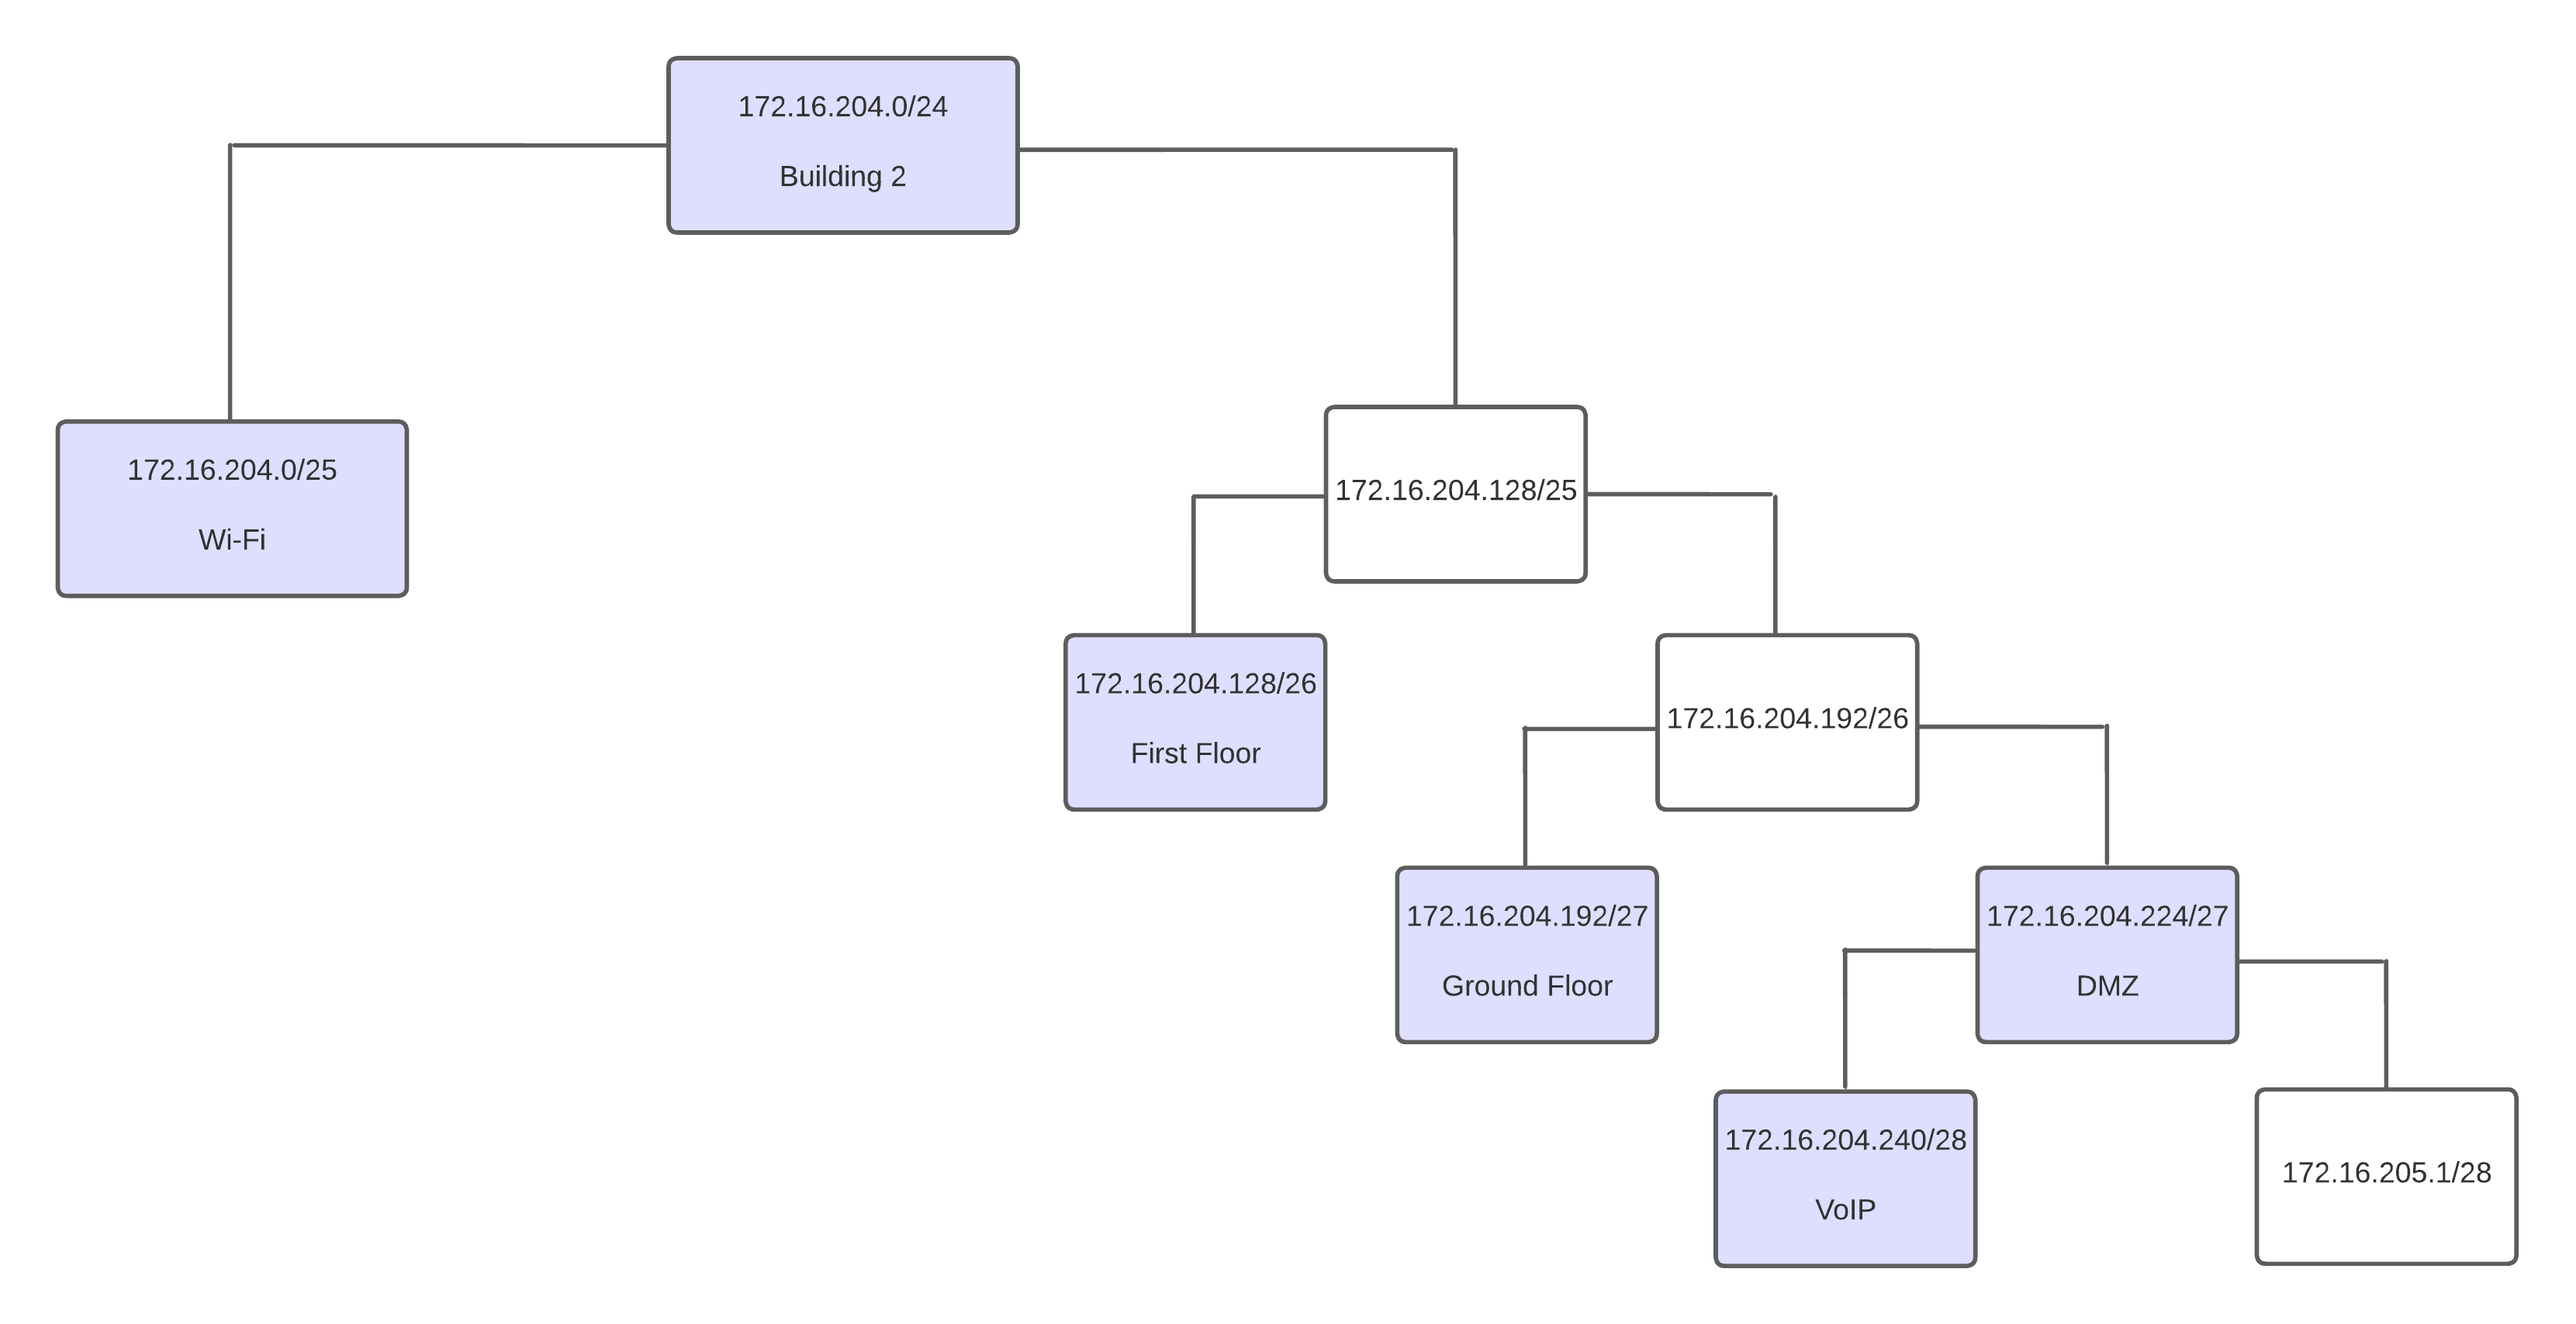
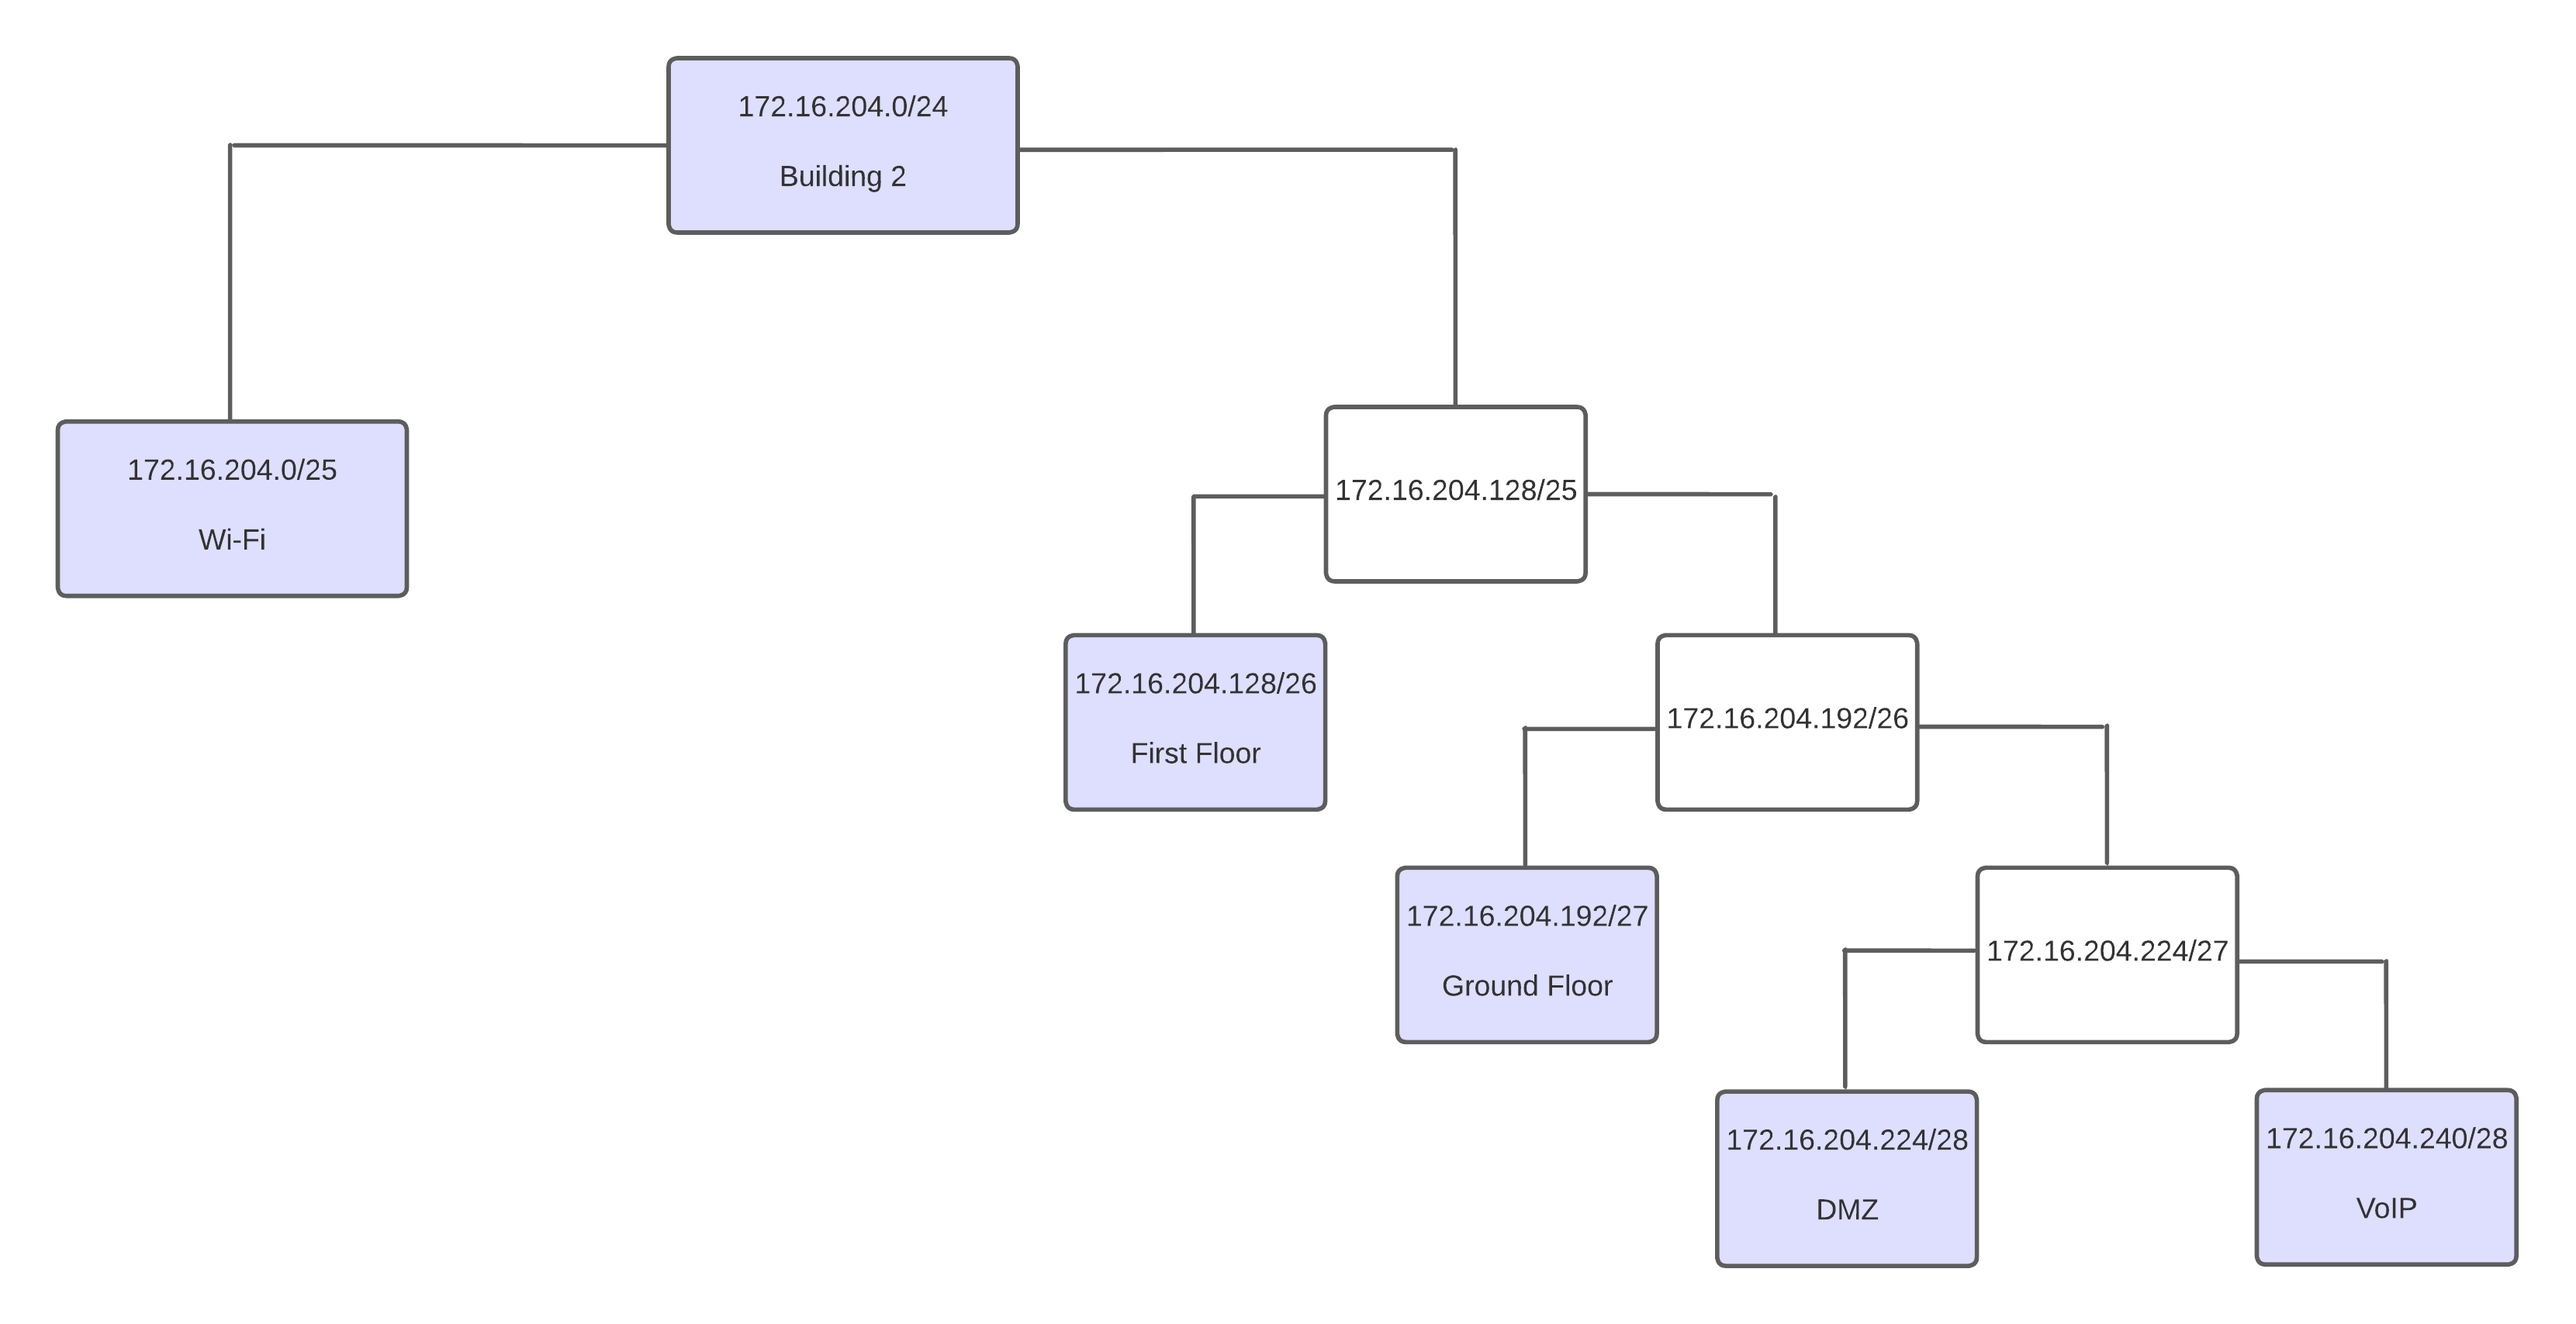
Fix on the Network Table

diff --git a/doc/sprint2/1201239/README.md b/doc/sprint2/1201239/README.md
@@ -14,8 +14,8 @@ RCOMP 2021-2022 Project - Sprint 2 - Member 1201239 folder
 |Wi-Fi           | 248     | b2wifi        | 120         | 172.16.204.0/25   | 172.16.204.1/25   | 172.16.204.126/25 | 172.16.204.127/25 |
 |First Floor     | 247     | b2floorone    | 50          | 172.16.204.128/26 | 172.16.204.129/26 | 172.16.204.190/26 | 172.16.204.191/26 |
 |Ground Floor    | 246     | b2groundfloor | 25          | 172.16.204.192/27 | 172.16.204.193/27 | 172.16.204.224/27 | 172.16.204.223/27 |
-|DMZ             | 249     | b2dmz         | 12          | 172.16.204.224/27 | 172.16.204.225/27 | 172.16.204.238/27 | 172.16.204.239/27 |
-|VoIP            | 250     | b2voip        | 12          | 172.16.204.240/28 | 172.16.204.241/28 | 172.16.205.0/28   | 172.16.205.1/28   |
+|DMZ             | 249     | b2dmz         | 12          | 172.16.204.224/28 | 172.16.204.225/28 | 172.16.204.238/28 | 172.16.204.239/28 |
+|VoIP            | 250     | b2voip        | 12          | 172.16.204.240/28 | 172.16.204.241/28 | 172.16.204.254/28 | 172.16.204.255/28 |
 
 > According to the presented diagram, there are still 37 nodes which have available unused IP's, allowing for future expansion.
 
